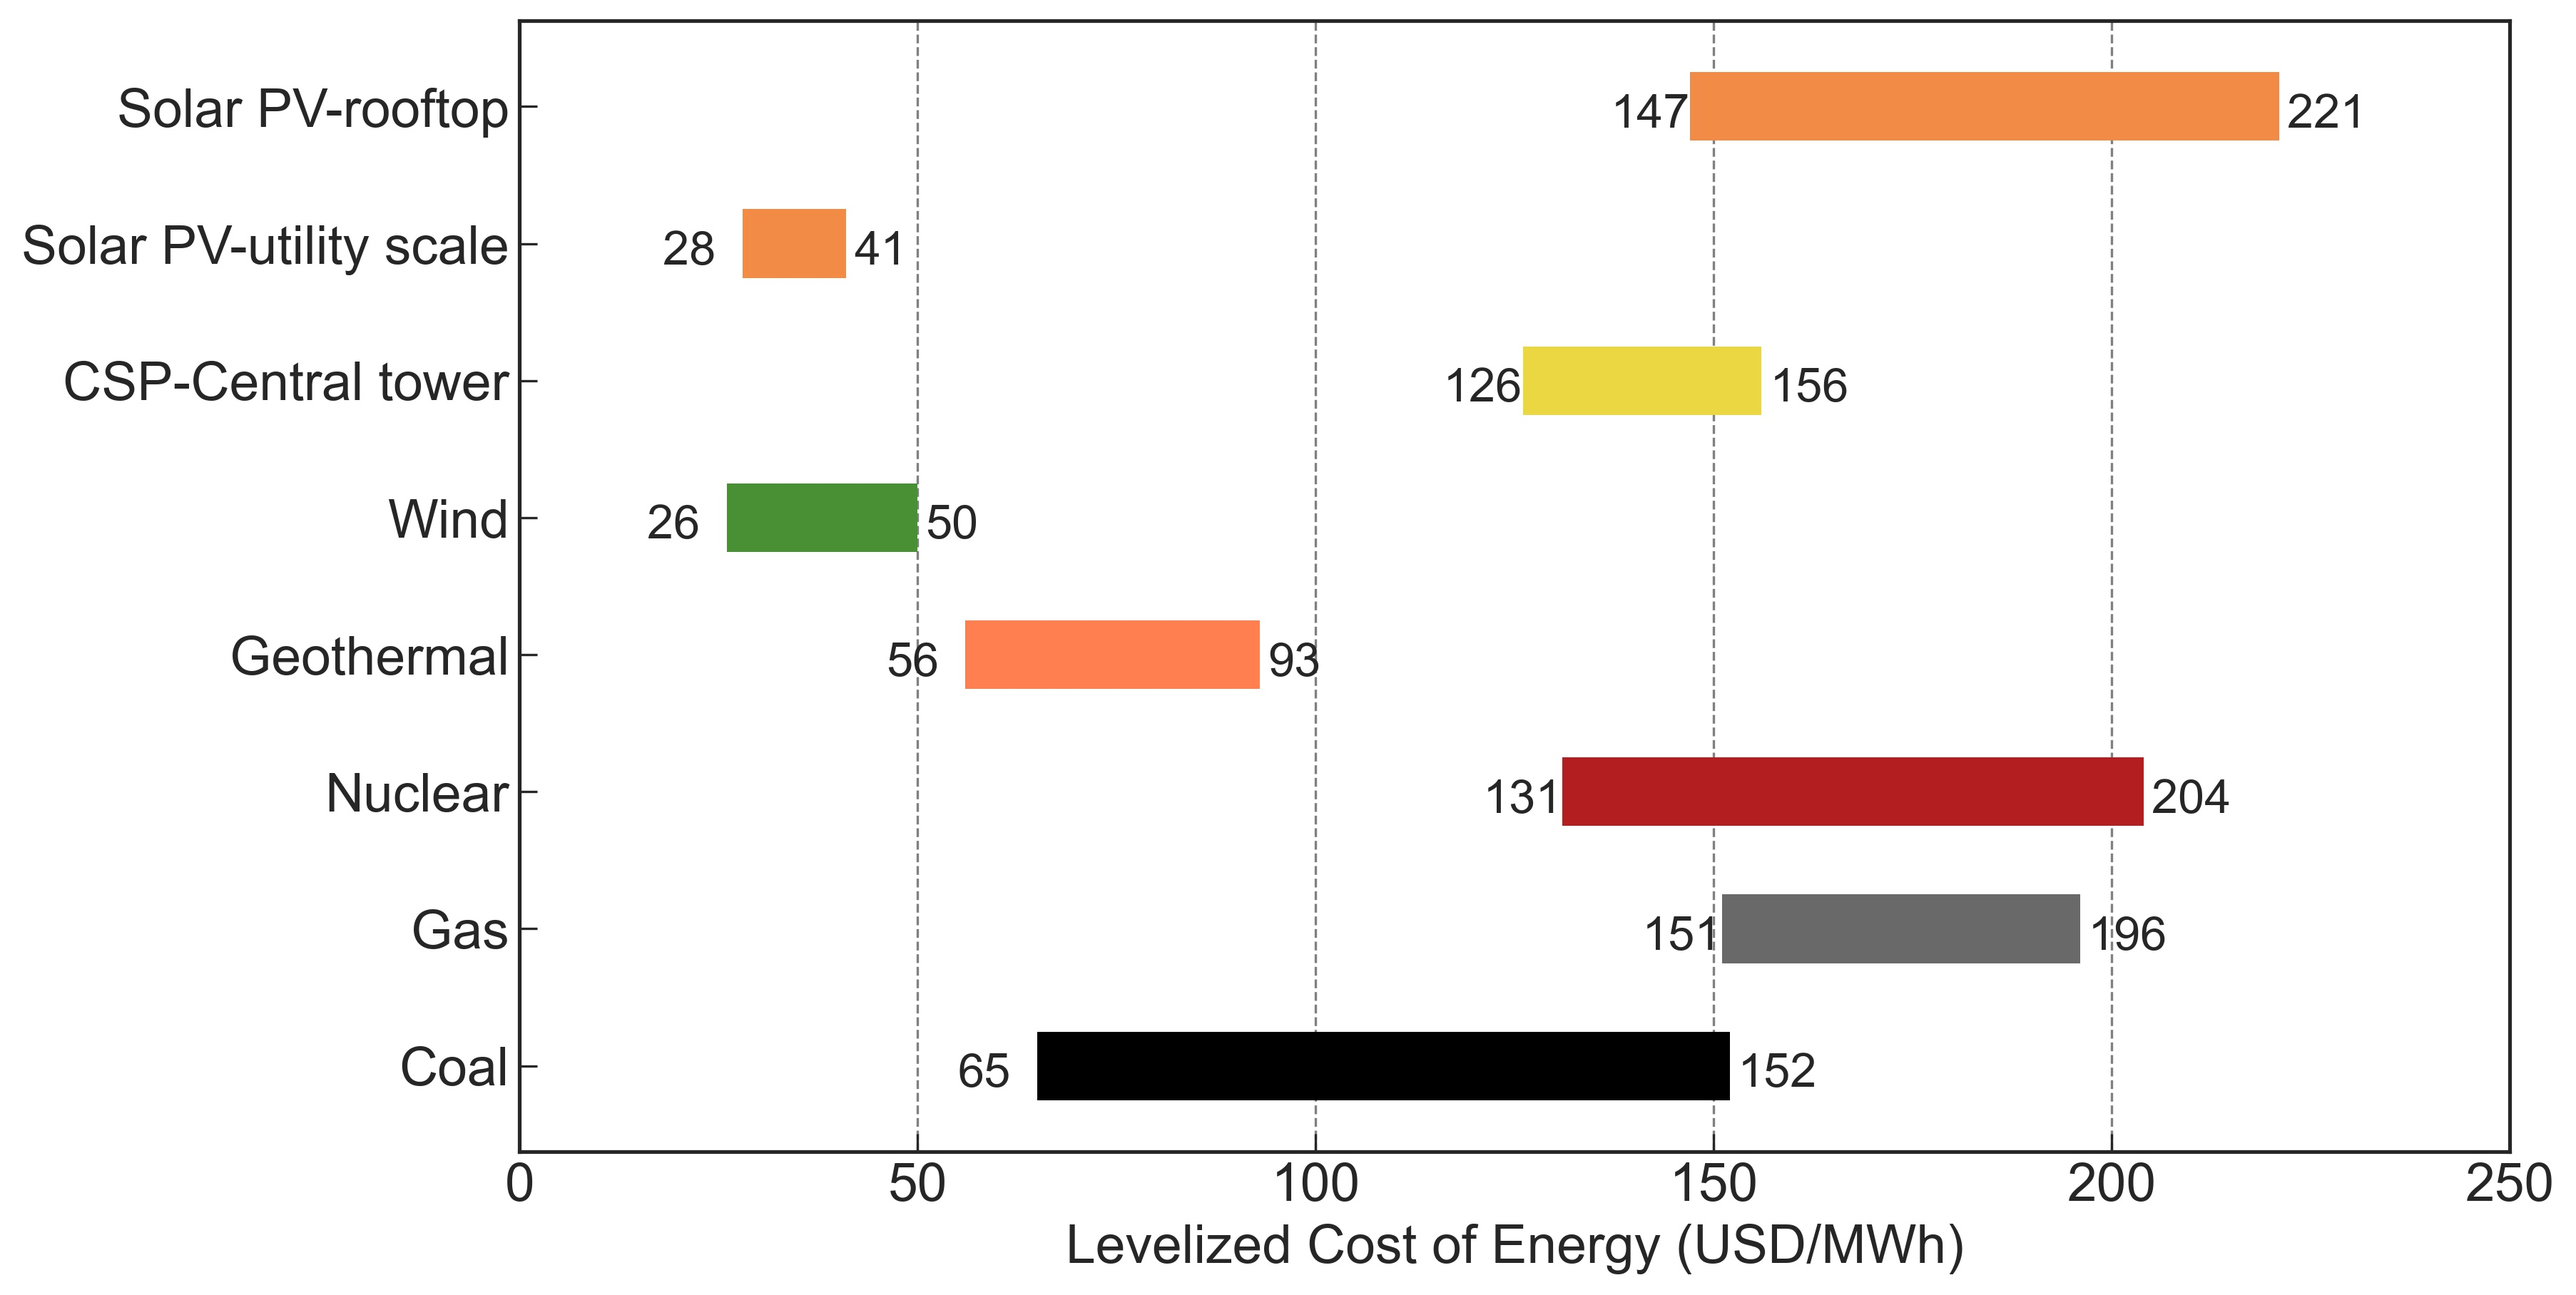
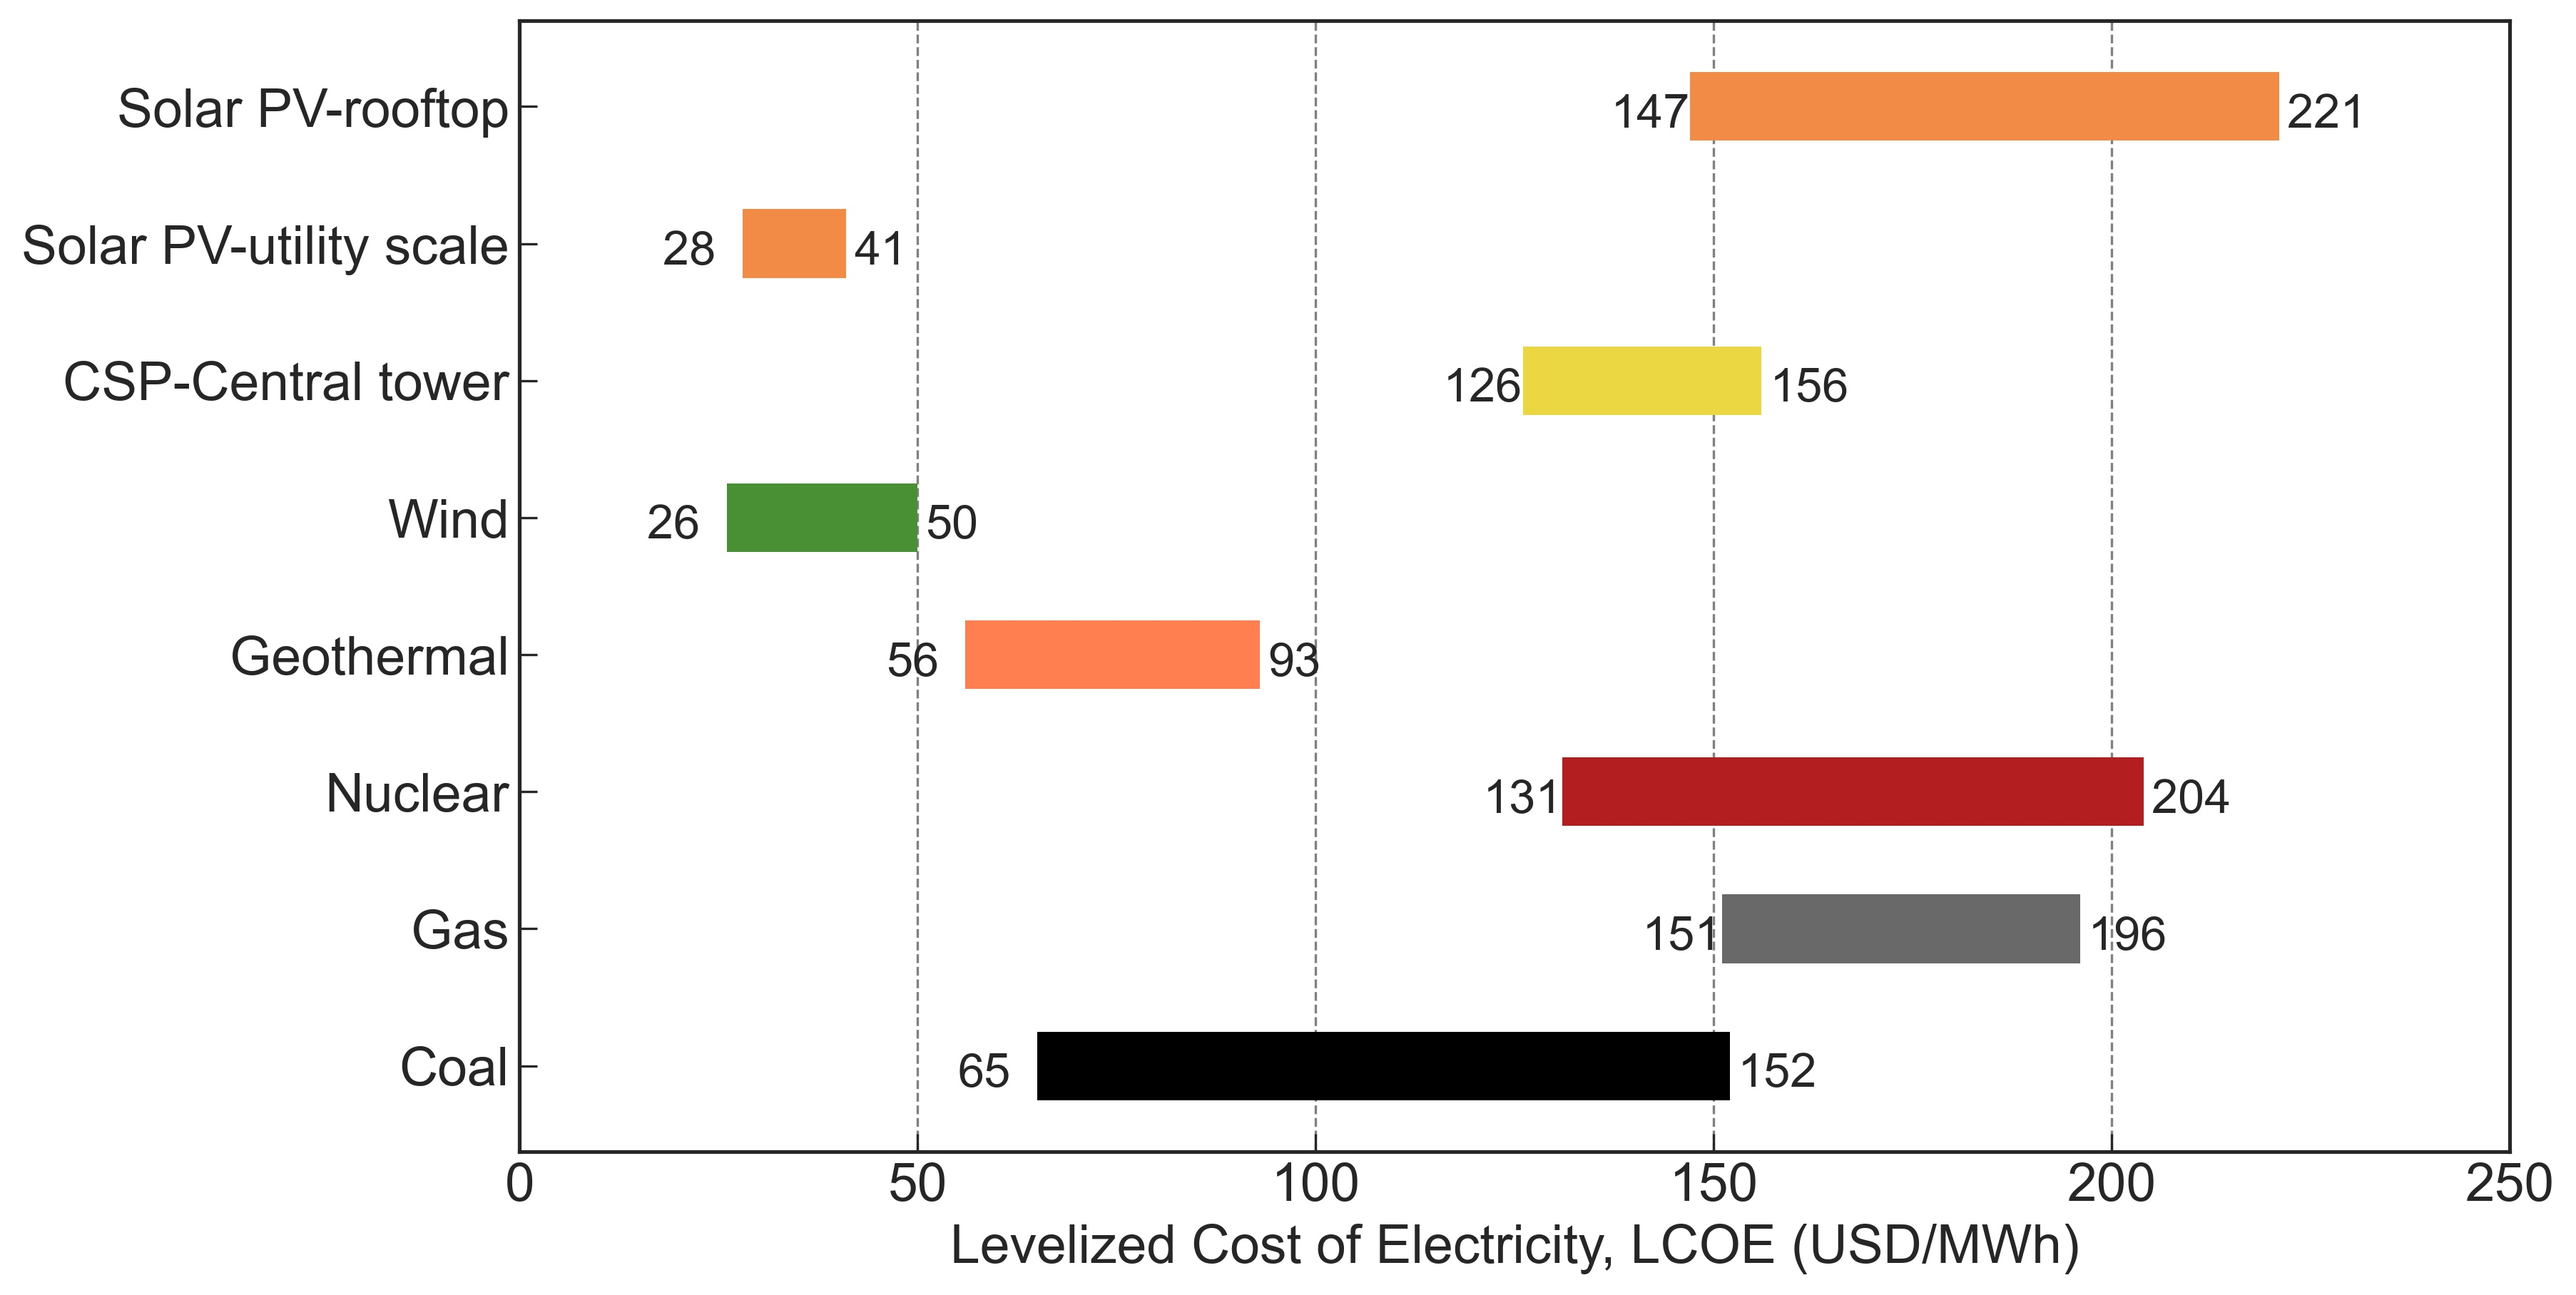
small improvements in Figures chapter 13 and adding figure problem 13.7

Changed region(s): [[0.3722, 0.9251, 0.8064, 0.9868]]

diff --git a/Figures/Chapter_13/cost_rooftop.py b/Figures/Chapter_13/cost_rooftop.py
@@ -24,12 +24,13 @@ ax1 = plt.subplot(gs1[0,0])
 
 ax1.bar(data.index, height=data['Modules'], label='PV modules', 
         color=colors['color5'])
-ax1.bar(data.index, height=data['BOS'], bottom=data['Modules'], label='BOS',
+ax1.bar(data.index, height=data['BoS'], bottom=data['Modules'], label='BoS',
         color=colors['color1'])
 
 ax1.legend(fancybox=False, fontsize=18, loc='best', #(1.03,-0.04), 
            facecolor='white', ncol=1, frameon=True)
 ax1.set_ylim(0,100)
+ax1.set_xlim(2005,2021.5)
 ax1.set_ylabel('Relative price (in % compared to 2006)')
 
 ax1.grid(color='grey', linestyle='--', axis='y', which='both')

diff --git a/Figures/Chapter_13/learning_curve.py b/Figures/Chapter_13/learning_curve.py
@@ -47,6 +47,6 @@ ax1.annotate('2000', xy=(1.26, 4.6), xytext=(3.5, 5), fontsize=16,
 ax1.annotate('2010', xy=(40.9, 1.68), xytext=(100, 1.6), fontsize=16,
              arrowprops=dict(facecolor='black', arrowstyle='-'))
 
-ax1.annotate('2020', xy=(805, 0.183), xytext=(2000, 0.15), fontsize=16,
+ax1.annotate('2020', xy=(800, 0.183), xytext=(200, 0.12), fontsize=16,
              arrowprops=dict(facecolor='black', arrowstyle='-'))
 plt.savefig('figures/learning_curve.jpg', dpi=300, bbox_inches='tight')

diff --git a/Figures/Chapter_13/LCOE_different_technologies.py b/Figures/Chapter_13/LCOE_different_technologies.py
@@ -64,7 +64,7 @@ for i,tech in enumerate(techs):
     ax1.text(LCOE[tech][1]+1, i-0.15, LCOE[tech][1], fontsize=16)
     ax1.text(LCOE[tech][0]-10, i-0.15, LCOE[tech][0], fontsize=16)
 ax1.set_xlim(0,250)
-ax1.set_xlabel('Levelized Cost of Energy (USD/MWh)')
+ax1.set_xlabel('Levelized Cost of Electricity, LCOE (USD/MWh)')
 ax1.set_yticks(range(0,len(techs)))
 ax1.set_yticklabels(techs)
 ax1.grid(color='grey', linestyle='--', axis='x', which='both')
